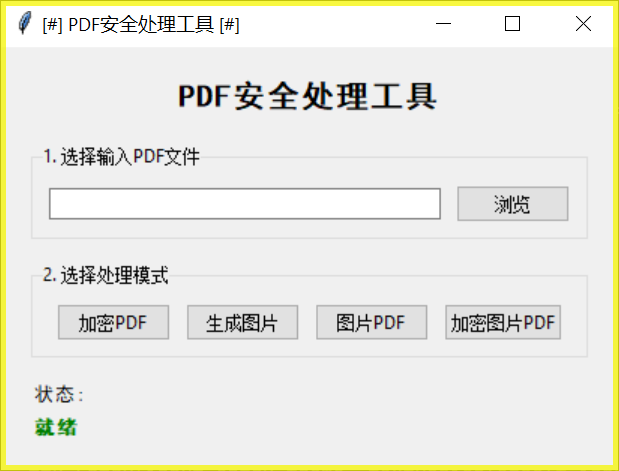
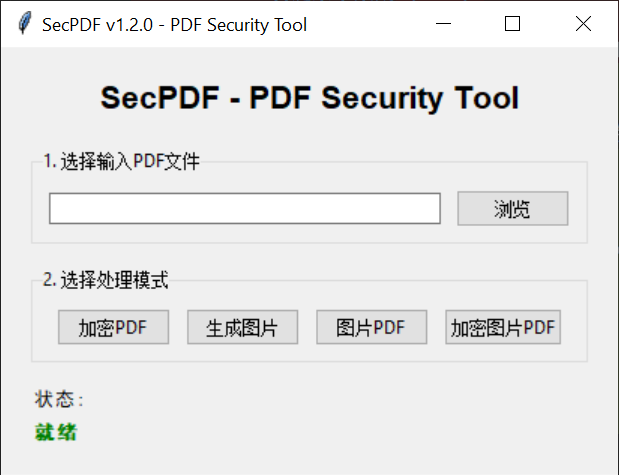
docs: 更新文档和UI文本为英文

diff --git a/secpdf_gui.py b/secpdf_gui.py
@@ -7,7 +7,7 @@ import os
 class PDFSecurityGUI:
     def __init__(self, root):
         self.root = root
-        self.root.title(f"PDF安全处理工具 v{__version__}")
+        self.root.title(f"SecPDF v{__version__} - PDF Security Tool")
         # 不设置具体的geometry值，让Tkinter自动计算窗口大小
         self.root.resizable(True, True)
         
@@ -19,7 +19,7 @@ class PDFSecurityGUI:
         self.main_frame.pack(fill=tk.BOTH, expand=True)
         
         # 创建标题
-        self.title_label = ttk.Label(self.main_frame, text="PDF安全处理工具", font=("SimHei", 16, "bold"))
+        self.title_label = ttk.Label(self.main_frame, text="SecPDF - PDF Security Tool", font=("Arial", 16, "bold"))
         self.title_label.pack(pady=(0, 20))
         
         # 创建输入文件选择框架

diff --git a/README.md b/README.md
@@ -1,6 +1,6 @@
 <div align="center">
 
-# 📄 SecPDF - PDF文件安全处理工具
+# 📄 SecPDF - PDF Security Tool
 
 [![GitHub release](https://img.shields.io/github/v/release/anyshpm/secpdf?style=flat-square)](https://github.com/anyshpm/secpdf/releases)
 [![GitHub downloads](https://img.shields.io/github/downloads/anyshpm/secpdf/total?style=flat-square)](https://github.com/anyshpm/secpdf/releases)
@@ -207,6 +207,8 @@ PDF 输入
 
 <div align="center">
 
-**如果这个项目对你有帮助，请给它一个 ⭐ Star**
+**If this project helps you, please give it a ⭐ Star**
+
+Made with ❤ by Anyshpm
 
 </div>
